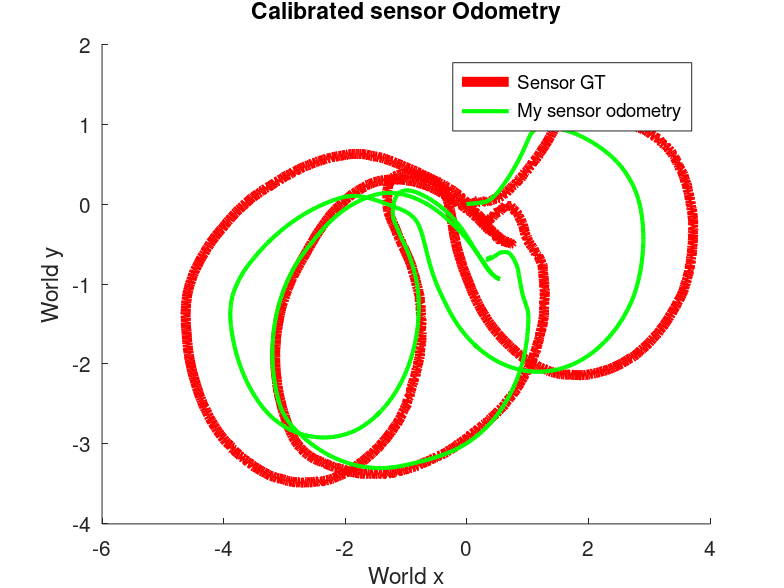
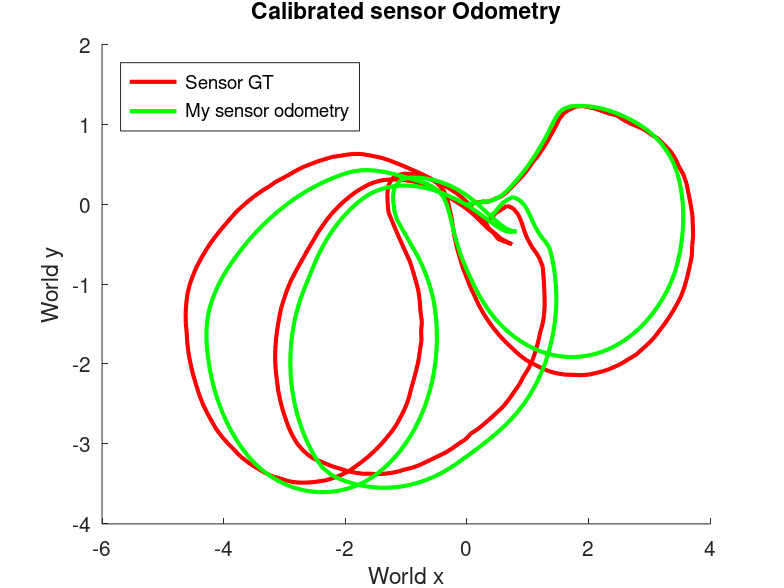
Added automatic gifs! (and some useful images)

Changed region(s): [[0.1531, 0.0918, 0.8878, 0.8571], [0.1531, 0.0918, 0.4592, 0.1531]]

diff --git a/calibrate.m b/calibrate.m
@@ -1,5 +1,5 @@
-function [x_new, chi_record] = calibrate(x, Z, n_iterations, encoder_max_values, damping, plot_)
-
+function [x_new, chi_record] = calibrate(x, Z, n_iterations, encoder_max_values, damping, plot_, save_gif = false)
+    %shoutout to https://electroagenda.com/en/create-gif-files-in-octave-and-matlab/ for the gif creation code
     if plot_
         live_plot = init_figure(5, 'Live calibration', 'World x', 'World y');
 
@@ -15,6 +15,24 @@ function [x_new, chi_record] = calibrate(x, Z, n_iterations, encoder_max_values,
         h_param_fig = init_figure(6, 'Live parameter evolution', 'iteration', 'value');
         x_record(:, 1) = x;
         plot_param_evolution(h_param_fig, x_record, 0, 0, 0);
+
+        if (save_gif)
+
+            % Assign plot to a frame
+            frame = getframe(live_plot);
+            % Convert frame to RGB image (3 dimensional)
+            im = frame2im(frame);
+            % Transform RGB samples to 1 dimension with a color map "cm".
+            [imind, cm] = rgb2ind(im);
+            imwrite(imind, cm, './images/live.gif', 'gif', 'DelayTime', 1, 'Compression', 'lzw');
+
+            frame = getframe(h_param_fig);
+            im = frame2im(frame);
+            [imind, cm] = rgb2ind(im);
+            imwrite(imind, cm, './images/param.gif', 'gif', 'DelayTime', 1, 'Compression', 'lzw');
+
+        endif
+
     endif
 
     #### LS LOOP ####
@@ -45,7 +63,7 @@ function [x_new, chi_record] = calibrate(x, Z, n_iterations, encoder_max_values,
 
         H += eye(7) * damping;
         dx = -H \ b;
-        x_new = boxplus(x_new, dx');
+        x_new = boxplus(x_new, dx')
         ##############################
 
         x_record(:, j + 1) = x_new;
@@ -58,8 +76,21 @@ function [x_new, chi_record] = calibrate(x, Z, n_iterations, encoder_max_values,
             set(h7, 'XData', calibrated_my_robot_odometry(:, 1), 'YData', calibrated_my_robot_odometry(:, 2));
             set(h8, 'XData', calibrated_my_sensor_odometry(:, 1), 'YData', calibrated_my_sensor_odometry(:, 2));
             drawnow;
-
             plot_param_evolution(h_param_fig, x_record, chi_record, dx, j);
+
+            if (save_gif)
+
+                frame = getframe(live_plot);
+                im = frame2im(frame);
+                [imind, cm] = rgb2ind(im);
+                imwrite(imind, cm, './images/live.gif', 'gif', 'WriteMode', 'append', 'DelayTime', 1, 'Compression', 'lzw');
+
+                frame = getframe(h_param_fig);
+                im = frame2im(frame);
+                [imind, cm] = rgb2ind(im);
+                imwrite(imind, cm, './images/param.gif', 'gif', 'WriteMode', 'append', 'DelayTime', 1, 'Compression', 'lzw');
+            endif
+
         endif
 
     endfor
